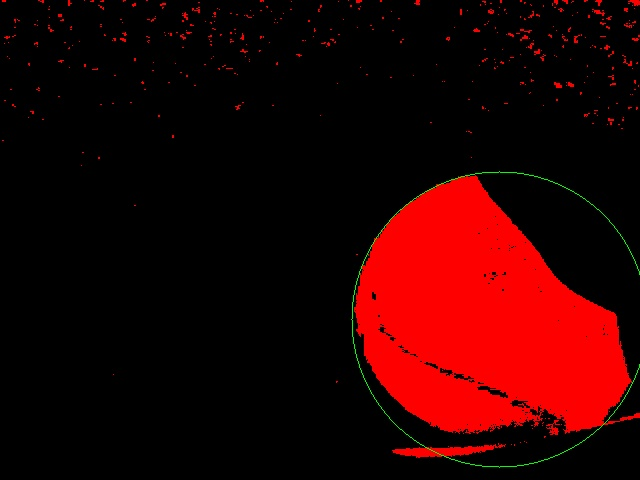
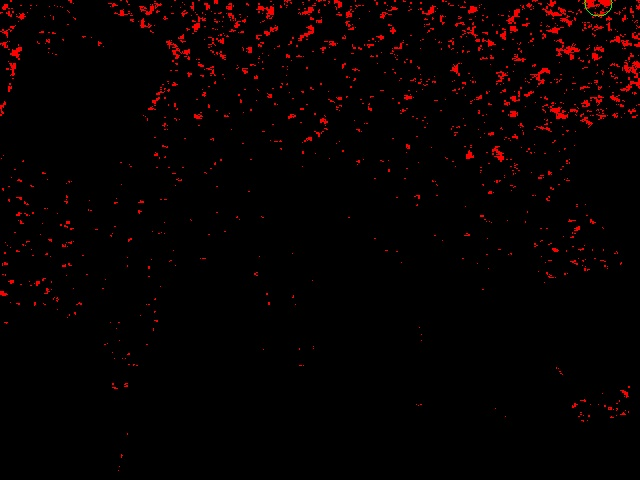
debug coordinate system and tune HSV thresholds more

diff --git a/combinedtest.py b/combinedtest.py
@@ -24,22 +24,42 @@ handClosed = [70, 70, 70, 70, 50, -80]
 # ballColor as per-channel HSV [min H,S,V], [max H,S,V] (OpenCV scale:
 # H 0-179, S/V 0-255); a pixel is a ball pixel when min <= channel <= max
 # for all 3 HSV channels.
-ballColor = ([18,72,34], [56,205,196])
+ballColor = ([18,110,34], [56,205,196])
 
 ballDiameter = 0.065  # m (standard tennis ball)
 ballRadius = ballDiameter / 2
 
+# Custom tooltip offset: the physical tool point (grasp point) in the frame
+# that get_arm_position() reports tooltip_position in. The robot keeps
+# reporting/targeting its own tooltip frame; getToolPointInBase() /
+# toolPointTargetToTooltip() apply this offset in code. Because camInTooltip
+# stays relative to the *reported* tooltip, changing this offset does not
+# invalidate the hand-eye calibration.
+tooltipOffset = np.eye(4)
+tooltipOffset[:3, 3] = [0.0, 0.12, -0.10]
+
 # Hand-eye extrinsics: pose of the RealSense *color* camera in the frame that
 # get_arm_position() reports tooltip_position in (4x4 homogeneous, meters).
 # Produced by calibrate_handeye.py, which writes camInTooltip.npy next to this
-# file. The identity fallback means "the camera sits exactly at the tooltip,
-# looking along its +Z" — fine for wiring tests, wrong for real grasps.
+# file. Until that exists, fall back to the hand-measured mounting offset:
+# Y-0.03 m, Z-0.07 m, roll -120 deg about the tooltip X axis; the camera is
+# mounted flipped 180 deg about its own optical (Z) axis.
+rollRad = np.deg2rad(-120)
+camInTooltipMeasured = np.eye(4)
+camInTooltipMeasured[:3, :3] = np.array(
+    [[1, 0, 0],
+     [0, np.cos(rollRad), -np.sin(rollRad)],
+     [0, np.sin(rollRad),  np.cos(rollRad)]]
+) #@ np.diag([-1.0, -1.0, 1.0])  # Rz(180): the 180-deg sensor flip
+camInTooltipMeasured[:3, 3] = [0.0, -0.03, -0.07]
+
 camInTooltipFile = Path(__file__).with_name("camInTooltip.npy")
 if camInTooltipFile.exists():
     camInTooltip = np.load(camInTooltipFile)
 else:
-    print("camInTooltip.npy not found; using identity (run calibrate_handeye.py)")
-    camInTooltip = np.eye(4)
+    print("camInTooltip.npy not found; using hand-measured camera offset "
+          "(run calibrate_handeye.py for a calibrated one)")
+    camInTooltip = camInTooltipMeasured
 
 metersPerUnit = {
     models.LinearUnitKind.Millimeters: 0.001,
@@ -168,14 +188,16 @@ def ballCenterInCam(center, diameterPx, depthM, intr):
     apparent size: with the true diameter known, range = fx * D / d_px.
     """
     cx, cy = center
-    depthSurf = sampleBallDepth(depthM, center, diameterPx / 2)
-    if depthSurf is not None:
-        # The sampled disc sees the front cap at z = Zcenter - R*cos(theta);
-        # the median over the inner 55% works out to Zcenter - ~0.92 R.
-        return np.array(rs.rs2_deproject_pixel_to_point(
-            intr, [cx, cy], depthSurf + 0.92 * ballRadius))
 
-    print("ball depth unavailable; falling back to apparent-size range")
+    # Depth is disabled for now because it is inaccurate at the desired range
+    # depthSurf = sampleBallDepth(depthM, center, diameterPx / 2)
+    # if depthSurf is not None:
+    #     # The sampled disc sees the front cap at z = Zcenter - R*cos(theta);
+    #     # the median over the inner 55% works out to Zcenter - ~0.92 R.
+    #     return np.array(rs.rs2_deproject_pixel_to_point(
+    #         intr, [cx, cy], depthSurf + 0.92 * ballRadius))
+
+    # print("ball depth unavailable; falling back to apparent-size range")
     ray = np.array(rs.rs2_deproject_pixel_to_point(intr, [cx, cy], 1.0))
     dist = intr.fx * ballDiameter / diameterPx  # range to the ball center
     return ray * (dist / np.linalg.norm(ray))
@@ -209,6 +231,16 @@ def getTooltipInBase(arm):
     T[:3, :3] = quatToMat(q.x, q.y, q.z, q.w)
     T[:3, 3] = np.array([tooltip.position.x, tooltip.position.y, tooltip.position.z]) * scale
     return T
+
+def getToolPointInBase(arm):
+    """Current physical tool point (tooltipOffset applied) as a 4x4 base-frame
+    transform (meters)."""
+    return getTooltipInBase(arm) @ tooltipOffset
+
+def toolPointTargetToTooltip(target):
+    """Reported-tooltip pose that puts the physical tool point at `target`
+    (4x4 base-frame pose). Pass the result to move_tooltip."""
+    return target @ np.linalg.inv(tooltipOffset)
 
 def quatToMat(x, y, z, w):
     n = np.sqrt(x*x + y*y + z*z + w*w)

diff --git a/debug_ball_frames.py b/debug_ball_frames.py
@@ -1,0 +1,72 @@
+#!/usr/bin/env python3
+"""Coordinate-frame debugger: live tennis-ball position in every frame.
+
+Prints one line per reading with the detected ball center expressed in the
+camera, reported-tooltip, tool-point (tooltipOffset applied), and robot base
+frames, so each link of the chain
+
+    pixel + depth -> camera --camInTooltip--> tooltip --tooltipOffset--> tool
+                                tooltip --arm pose--> base
+
+can be checked in isolation:
+  * ball still, arm moving: base must stay put. Drift that grows with arm
+    rotation means camInTooltip is off (rerun calibrate_handeye.py).
+  * everything still: cam/tooltip/tool/base must all be steady; jitter here
+    is detection/depth noise, before any transform is involved.
+  * ball at a spot you can measure: base should match the tape measure, and
+    tool reads (0, 0, 0) exactly when the grasp point touches the ball center.
+
+SAFETY: read-only — never commands motion and never brakes/unbrakes the arm.
+Freedrive/jog the arm while it runs.
+
+Usage:
+    .venv/bin/python debug_ball_frames.py    (Ctrl+C to stop)
+"""
+
+import numpy as np
+
+from calibrate_handeye import ArmReader
+from combinedtest import (CamClient, getFrames, getTooltipInBase, maskBall,
+                          fitCircleInArray, ballCenterInCam, camInTooltip,
+                          tooltipOffset)
+
+toolFromTooltip = np.linalg.inv(tooltipOffset)
+
+def toFrame(T, p):
+    return (T @ np.append(p, 1.0))[:3]
+
+def fmt(p):
+    return np.array2string(p, precision=3, suppress_small=True,
+                           floatmode="fixed")
+
+def main():
+    print("all positions in meters; Ctrl+C to stop")
+    with ArmReader() as arm, CamClient() as cam:
+        while True:
+            # Frame first, pose second, back to back (same caveat as
+            # getTennisBallPose: no hardware sync, so trust readings taken
+            # while the arm is still or moving slowly). The flush keeps the
+            # frame current — at this loop rate the pipeline queue would
+            # otherwise serve ever-staler images.
+            for _ in range(2):
+                frame, depthM, intr = getFrames(cam)
+            tooltipInBase = getTooltipInBase(arm)
+
+            fit = fitCircleInArray(maskBall(frame))
+            if fit is None:
+                print("ball: not found")
+                continue
+
+            pCam = ballCenterInCam(fit[0], fit[1], depthM, intr)
+            pTooltip = toFrame(camInTooltip, pCam)
+            pTool = toFrame(toolFromTooltip, pTooltip)
+            pBase = toFrame(tooltipInBase, pTooltip)
+
+            print(f"cam{fmt(pCam)}  tooltip{fmt(pTooltip)}  tool{fmt(pTool)}  "
+                  f"base{fmt(pBase)}  range {np.linalg.norm(pCam):.3f} m")
+
+if __name__ == "__main__":
+    try:
+        main()
+    except KeyboardInterrupt:
+        print()
